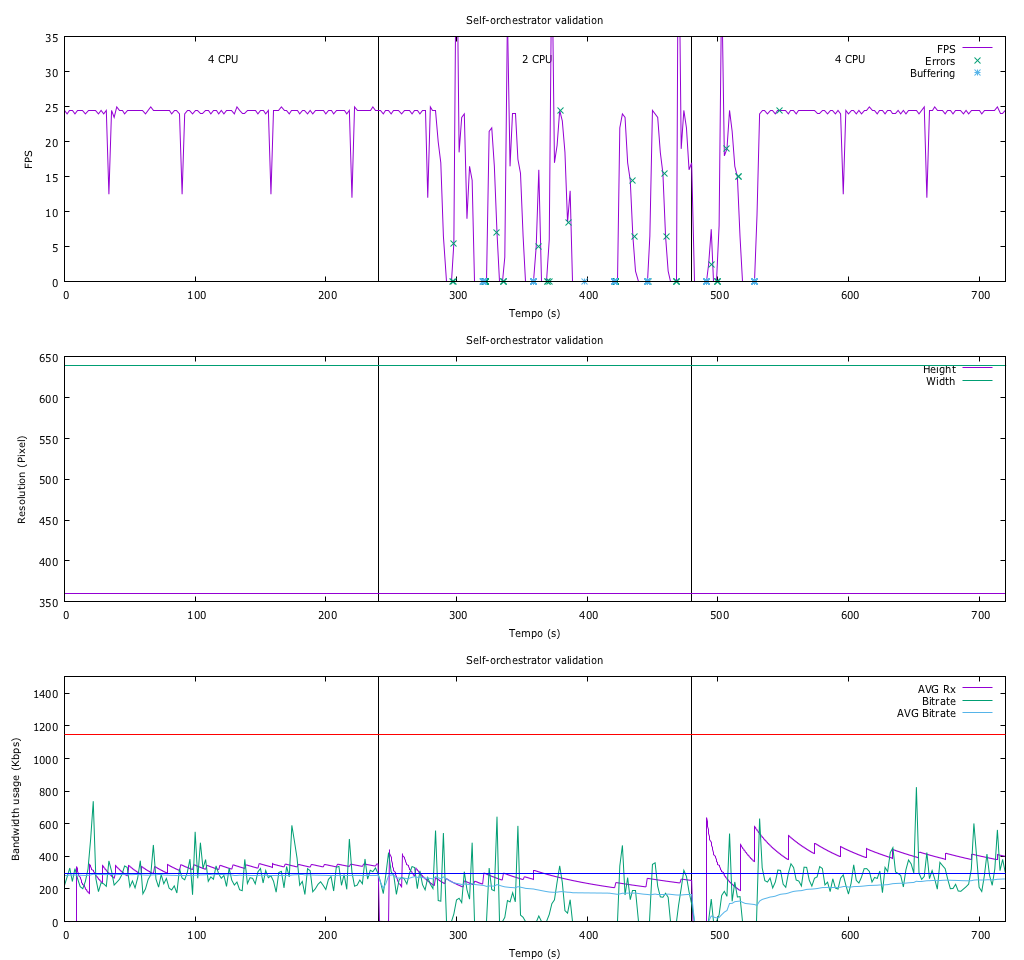
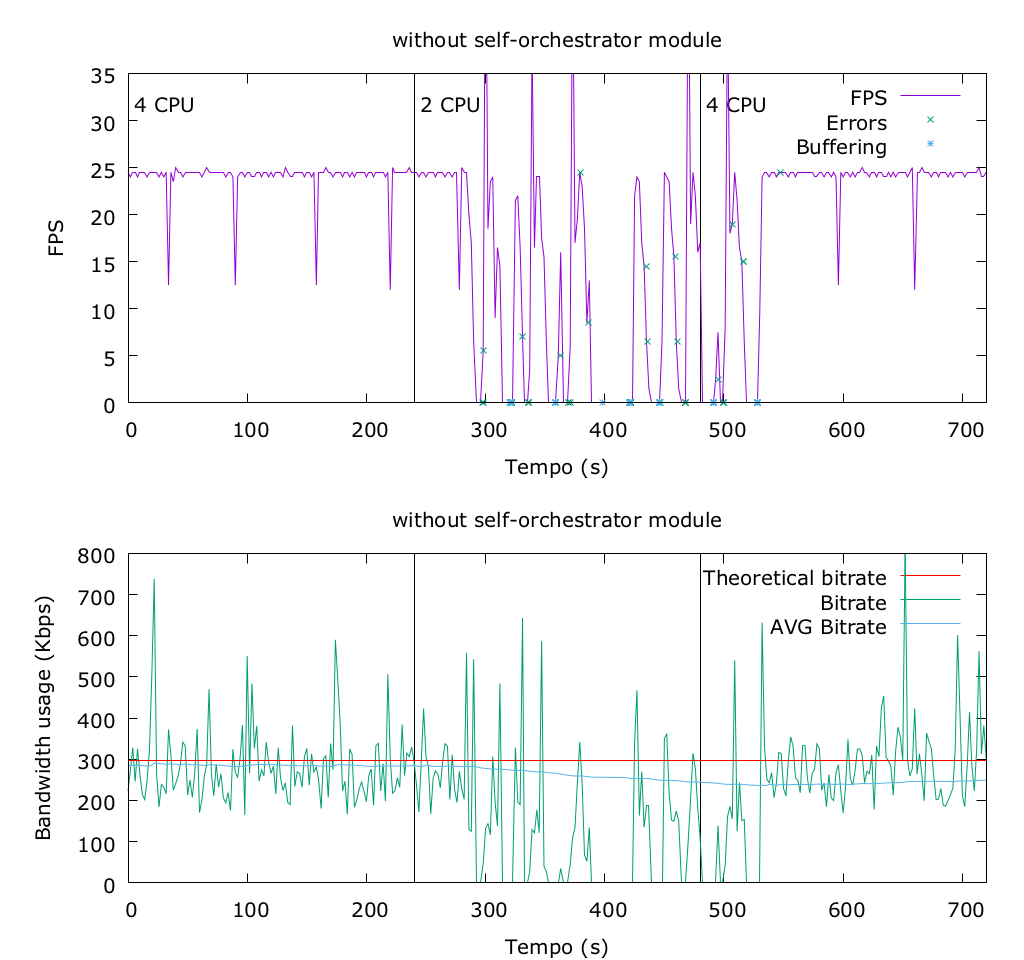
fix

diff --git a/graph.py b/graph.py
@@ -3,7 +3,12 @@
 import csv
 import sys
 import os
+import numpy as np
 
+
+if ( len(sys.argv) < 4 ):
+	print(sys.argv[0]+" meter_filename bwm_ng_csv_filename output_filename")
+	sys.exit(1)
 
 xstep=240
 
@@ -19,12 +24,11 @@ gnuplot.write("set datafile separator ';'\n")
 gnuplot.write("set output '"+out_filename+"'\n")
 gnuplot.write("set lmargin 10\n")
 
-gnuplot.write("set terminal pngcairo size 1024,960 enhanced font 'Verdana,10'\n")
+gnuplot.write("set terminal pngcairo size 1024,960 enhanced font 'Verdana,20'\n")
 gnuplot.write("set xlabel 'Tempo (s)'\n")
 
-gnuplot.write("set multiplot layout 3,1\n")
+gnuplot.write("set multiplot layout 2,1\n")
 gnuplot.write("set ylabel 'FPS'\n")
-gnuplot.write("set title 'Self-orchestrator validation'\n")
 #gnuplot.write("set autoscale\n")
 
 reportfile=open(sys.argv[1],'r')
@@ -53,8 +57,8 @@ writer_buff = csv.writer(outfile_buff,
 			quotechar='"',
 			quoting=csv.QUOTE_MINIMAL)
 
-
-gnuplot.write("set label '4 CPU' at "+str(xstep/2-10)+","+str(lbl_height)+"\n")
+#gnuplot.write("set label '4 CPU' at "+str(xstep/2-10)+","+str(lbl_height)+"\n")
+gnuplot.write("set label '4 CPU' at "+str(5)+","+str(lbl_height)+"\n")
 
 lost=0
 last_fps=0
@@ -64,6 +68,13 @@ xstart=0
 xend=0
 xthreshold1=0
 xthreshold2=0
+tipo="nosdo"
+xstartchange=0
+xendchange=0
+
+#fake_data=[]
+
+
 sumb=0
 mlen=1
 r=0
@@ -83,7 +94,8 @@ for row in report:
 			xend = timestamp + xstep
 
 		gnuplot.write("set arrow from "+str(timestamp-xstart)+", graph 0 to "+str(timestamp-xstart)+", graph 1 nohead\n")
-		gnuplot.write("set label '"+msg+"' at "+str(timestamp-xstart+xstep/2-10)+","+str(lbl_height)+"\n")
+#		gnuplot.write("set label '"+msg+"' at "+str(timestamp-xstart+xstep/2-10)+","+str(lbl_height)+"\n")
+		gnuplot.write("set label '"+msg+"' at "+str(timestamp-xstart+5)+","+str(lbl_height)+"\n")
 
 	elif ( record_type == "ERROR_EVENT" ):
 		if ( len(row[0]) > 10 ):
@@ -117,6 +129,18 @@ for row in report:
 		height =  int(row[5])
 		width = int(row[6])
 
+		if ( height > 400 and xstartchange == 0 ):
+			tipo="sdo"
+			xstartchange=timestamp-xstart
+			mlen = 1
+			sumb = 0
+			r = 1
+		elif ( height < 400 and xstartchange > 0 and xendchange == 0):
+			xendchange=timestamp-xstart
+			mlen = 1
+			sumb = 0
+			r = 2
+
 		if ( width != 0 ):
 			last_width = width
 		else:
@@ -131,14 +155,15 @@ for row in report:
 		if ( fps != 0 ):
 			bitrate = float(row[7])
 
-		if ( r == 0 and int(row[0]) > int(xthreshold1) and int(xthreshold1) > 0):
-			mlen = 1
-			sumb = 0
-			r = 1
-		elif ( r == 1 and int(row[0]) > int(xthreshold2) and int(xthreshold2) > 0):
-			mlen = 1
-			sumb = 0
-			r = 2
+#			if (  r == 0 ):
+#				fake_data.append(bitrate)
+
+#			if ( tipo == "sdo" and r == 1 ):
+#				noise = np.random.normal(0,0.5)*100
+#				bitrate = fake_data.pop() + noise
+
+#		if ( r == 0 and int(row[0]) > int(xthreshold1) and int(xthreshold1) > 0):
+#		elif ( r == 1 and int(row[0]) > int(xthreshold2) and int(xthreshold2) > 0):
 
 		sumb = sumb + float(bitrate)
 		writer.writerow([timestamp,fps,lost,height,width,bitrate,sumb/mlen])
@@ -193,6 +218,11 @@ for row in breader:
 bout.close()
 bandwidthfile.close()
 
+if ( tipo == "sdo"):
+	gnuplot.write("set title 'with self-orchestrator module'\n")
+else:
+	gnuplot.write("set title 'without self-orchestrator module'\n")
+
 gnuplot.write("set yrange [0:35]\n")
 
 gnuplot.write("set xrange [0:"+str(xend-xstart)+"]\n")
@@ -206,22 +236,24 @@ gnuplot.write("\t'tmp/output.csv' using ($1-"+str(xstart)+"):2 t'FPS' with line,
 gnuplot.write("\t'tmp/output_error.csv' using ($1-"+str(xstart)+"):2 t'Errors', \\\n")
 gnuplot.write("\t'tmp/output_buff.csv' using ($1-"+str(xstart)+"):2 t'Buffering' \n")
 
-gnuplot.write("set ylabel 'Resolution (Pixel)'\n")
-#gnuplot.write("set yrange [0:1200]\n")
-gnuplot.write("set autoscale\n")
-gnuplot.write("set xrange [0:"+str(xend-xstart)+"]\n")
-gnuplot.write("unset label\n")
+#gnuplot.write("set ylabel 'Resolution (Pixel)'\n")
+##gnuplot.write("set yrange [0:1200]\n")
+#gnuplot.write("set autoscale\n")
+#gnuplot.write("set xrange [0:"+str(xend-xstart)+"]\n")
+#gnuplot.write("unset label\n")
 
-gnuplot.write("plot sum= init(0), \\\n")
+#gnuplot.write("plot sum= init(0), \\\n")
 
-gnuplot.write("\t'tmp/output.csv' using ($1-"+str(xstart)+"):4 t'Height' with line, \\\n")
-gnuplot.write("\t'tmp/output.csv' using ($1-"+str(xstart)+"):5 t'Width' with line \n")
+#gnuplot.write("\t'tmp/output.csv' using ($1-"+str(xstart)+"):4 t'Frame height' with line, \\\n")
+#gnuplot.write("\t'tmp/output.csv' using ($1-"+str(xstart)+"):5 t'Frame width' with line \n")
 
 
 gnuplot.write("set ylabel 'Bandwidth usage (Kbps)'\n")
 #gnuplot.write("set yrange [0:1200]\n")
 gnuplot.write("set autoscale\n")
 #gnuplot.write("set yrange [0:1500]\n")
+gnuplot.write("set yrange [0:3000]\n")
+#gnuplot.write("set yrange [0:800]\n")
 gnuplot.write("set xrange [0:"+str(xend-xstart)+"]\n")
 gnuplot.write("unset label\n")
 
@@ -229,14 +261,25 @@ gnuplot.write("unset label\n")
 #gnuplot.write("\t'' using 1:5 t'Rx' with line\n")
 
 
-gnuplot.write("set arrow from graph 0,first 1148 to graph 1,first 1148 nohead lc rgb '#FF0000' front\n")
-gnuplot.write("set arrow from graph 0,first 296 to graph 1,first 296 nohead lc rgb '#0000FF' front\n")
+#gnuplot.write("set arrow from graph 0,first 1148 to graph 1,first 1148 nohead lc rgb '#FF0000' front\n")
+#gnuplot.write("set arrow from graph 0,first 296 to graph 1,first 296 nohead lc rgb '#0000FF' front\n")
+
+#if ( tipo == "sdo"):
+#	gnuplot.write("set arrow from 0,296 to "+str(xstartchange)+",296 nohead lc rgb '#FF0000' front\n")
+#	gnuplot.write("set arrow from "+str(xstartchange)+",1148 to "+str(xendchange)+",1148 nohead lc rgb '#FF0000' front\n")
+#	gnuplot.write("set arrow from "+str(xendchange)+",296 to "+str(xend-xstart)+",296 nohead lc rgb '#FF0000' front\n")
+#else:
+#	gnuplot.write("set arrow from 0,296 to "+str(xend-xstart)+",296 nohead lc rgb '#FF0000' front\n")
+
+
+gnuplot.write("set arrow from 0,296 to "+str(xend-xstart)+",296 nohead lc rgb '#FF0000' front\n")
 
 gnuplot.write("plot sum= init(0), \\\n")
+gnuplot.write("\tNaN lc rgb '#FF0000' title 'Theoretical bitrate', \\\n")
 #gnuplot.write("\t'"+bffile+"' using ($1-"+str(xstart)+"):($3*8/1000) t'Tx' with line, \\\n")
 #gnuplot.write("\t'"+bffile+"' using ($1-"+str(xstart)+"):($4*8/1000) t'Rx' with line, \\\n")
 #gnuplot.write("\t'"+bffile+"' using ($1-"+str(xstart)+"):($5*8/1000) t'AVG Tx' with line, \\\n")
-gnuplot.write("\t'"+bffile+"' using ($1-"+str(xstart)+"):($6*8/1000) t'AVG Rx' with line, \\\n")
+#gnuplot.write("\t'"+bffile+"' using ($1-"+str(xstart)+"):($6*8/1000) t'AVG Rx' with line, \\\n")
 gnuplot.write("\t'tmp/output.csv' using ($1-"+str(xstart)+"):6 t'Bitrate' with line, \\\n")
 gnuplot.write("\t'tmp/output.csv' using ($1-"+str(xstart)+"):7 t'AVG Bitrate' with line \n")
 

diff --git a/graph-bitrate.py b/graph-bitrate.py
@@ -1,0 +1,63 @@
+#!/usr/bin/env python3
+
+import csv
+import sys
+import os
+import numpy as np
+
+xstep=240
+
+lbl_height=32
+
+type=sys.argv[1]
+out_filename=sys.argv[2]
+
+bffile="tmp/boutput.csv"
+
+gnuplot = open("tmp/graph.plt","w")
+
+gnuplot.write("set datafile separator ';'\n")
+gnuplot.write("set output '"+out_filename+"'\n")
+gnuplot.write("set lmargin 10\n")
+
+gnuplot.write("set terminal pngcairo size 1024,480 enhanced font 'Verdana,20'\n")
+gnuplot.write("set xlabel 'Tempo (s)'\n")
+
+gnuplot.write("set ylabel 'Bitrate available [Kbps]'\n")
+#gnuplot.write("set autoscale\n")
+
+outfile=open("tmp/output.csv","w")
+
+writer = csv.writer(outfile,
+			delimiter=';',
+			quotechar='"',
+			quoting=csv.QUOTE_MINIMAL)
+
+for i in range(0,800):
+	if (type == 'nosdo'):
+		writer.writerow([i,1000])
+		writer.writerow([i,350])
+		writer.writerow([i,150])
+	else:
+		if ( i < 240 or i > 480 ):
+			writer.writerow([i,1000])
+			writer.writerow([i,350])
+			writer.writerow([i,150])
+		else:
+			writer.writerow([i,350])
+
+outfile.close()
+
+if ( type == "sdo"):
+	gnuplot.write("set title 'with self-orchestrator module'\n")
+else:
+	gnuplot.write("set title 'without self-orchestrator module'\n")
+
+gnuplot.write("set yrange [0:1200]\n")
+
+gnuplot.write("plot 'tmp/output.csv' using 1:2 t'Bitrate' with points pointtype 5")
+
+gnuplot.close()
+
+os.system("gnuplot tmp/graph.plt");
+os.system("open "+out_filename);

diff --git a/REAME.md b/REAME.md
@@ -1,0 +1,40 @@
+# VLC Quality meter
+
+This tool is used to verify the quality of a video streaming using data available in the client (e.g. FPS).
+
+## How to compile the tool
+
+'''
+gcc  ??
+'''
+
+## How to run the tool
+
+The first argument of the tool is the URL of the stream.
+
+'''
+./vlc.out http://192.168.40.10:1935/live/live_360p/playlist.m3u8
+'''
+
+This software produce two output file:
+
+- **report.csv** : it contains usefull information about the quality of reproduced stream
+- **vlc.log** : it contains all the logging information generated by VLC
+
+
+'''
+bwm-ng --output csv -u bit -I en0 -N 1 | grep -v total
+'''
+
+???
+
+## How to draw a graph
+
+
+'''
+./graph.py report.csv bwm_ng.csv graph.png
+'''
+
+- **report.csv** : the file generated by vlc.out
+- **bwn_ng.csv** : the file generated by bwm-ng about the bandwidth used during the streaming
+- **graph.png** : the output file
